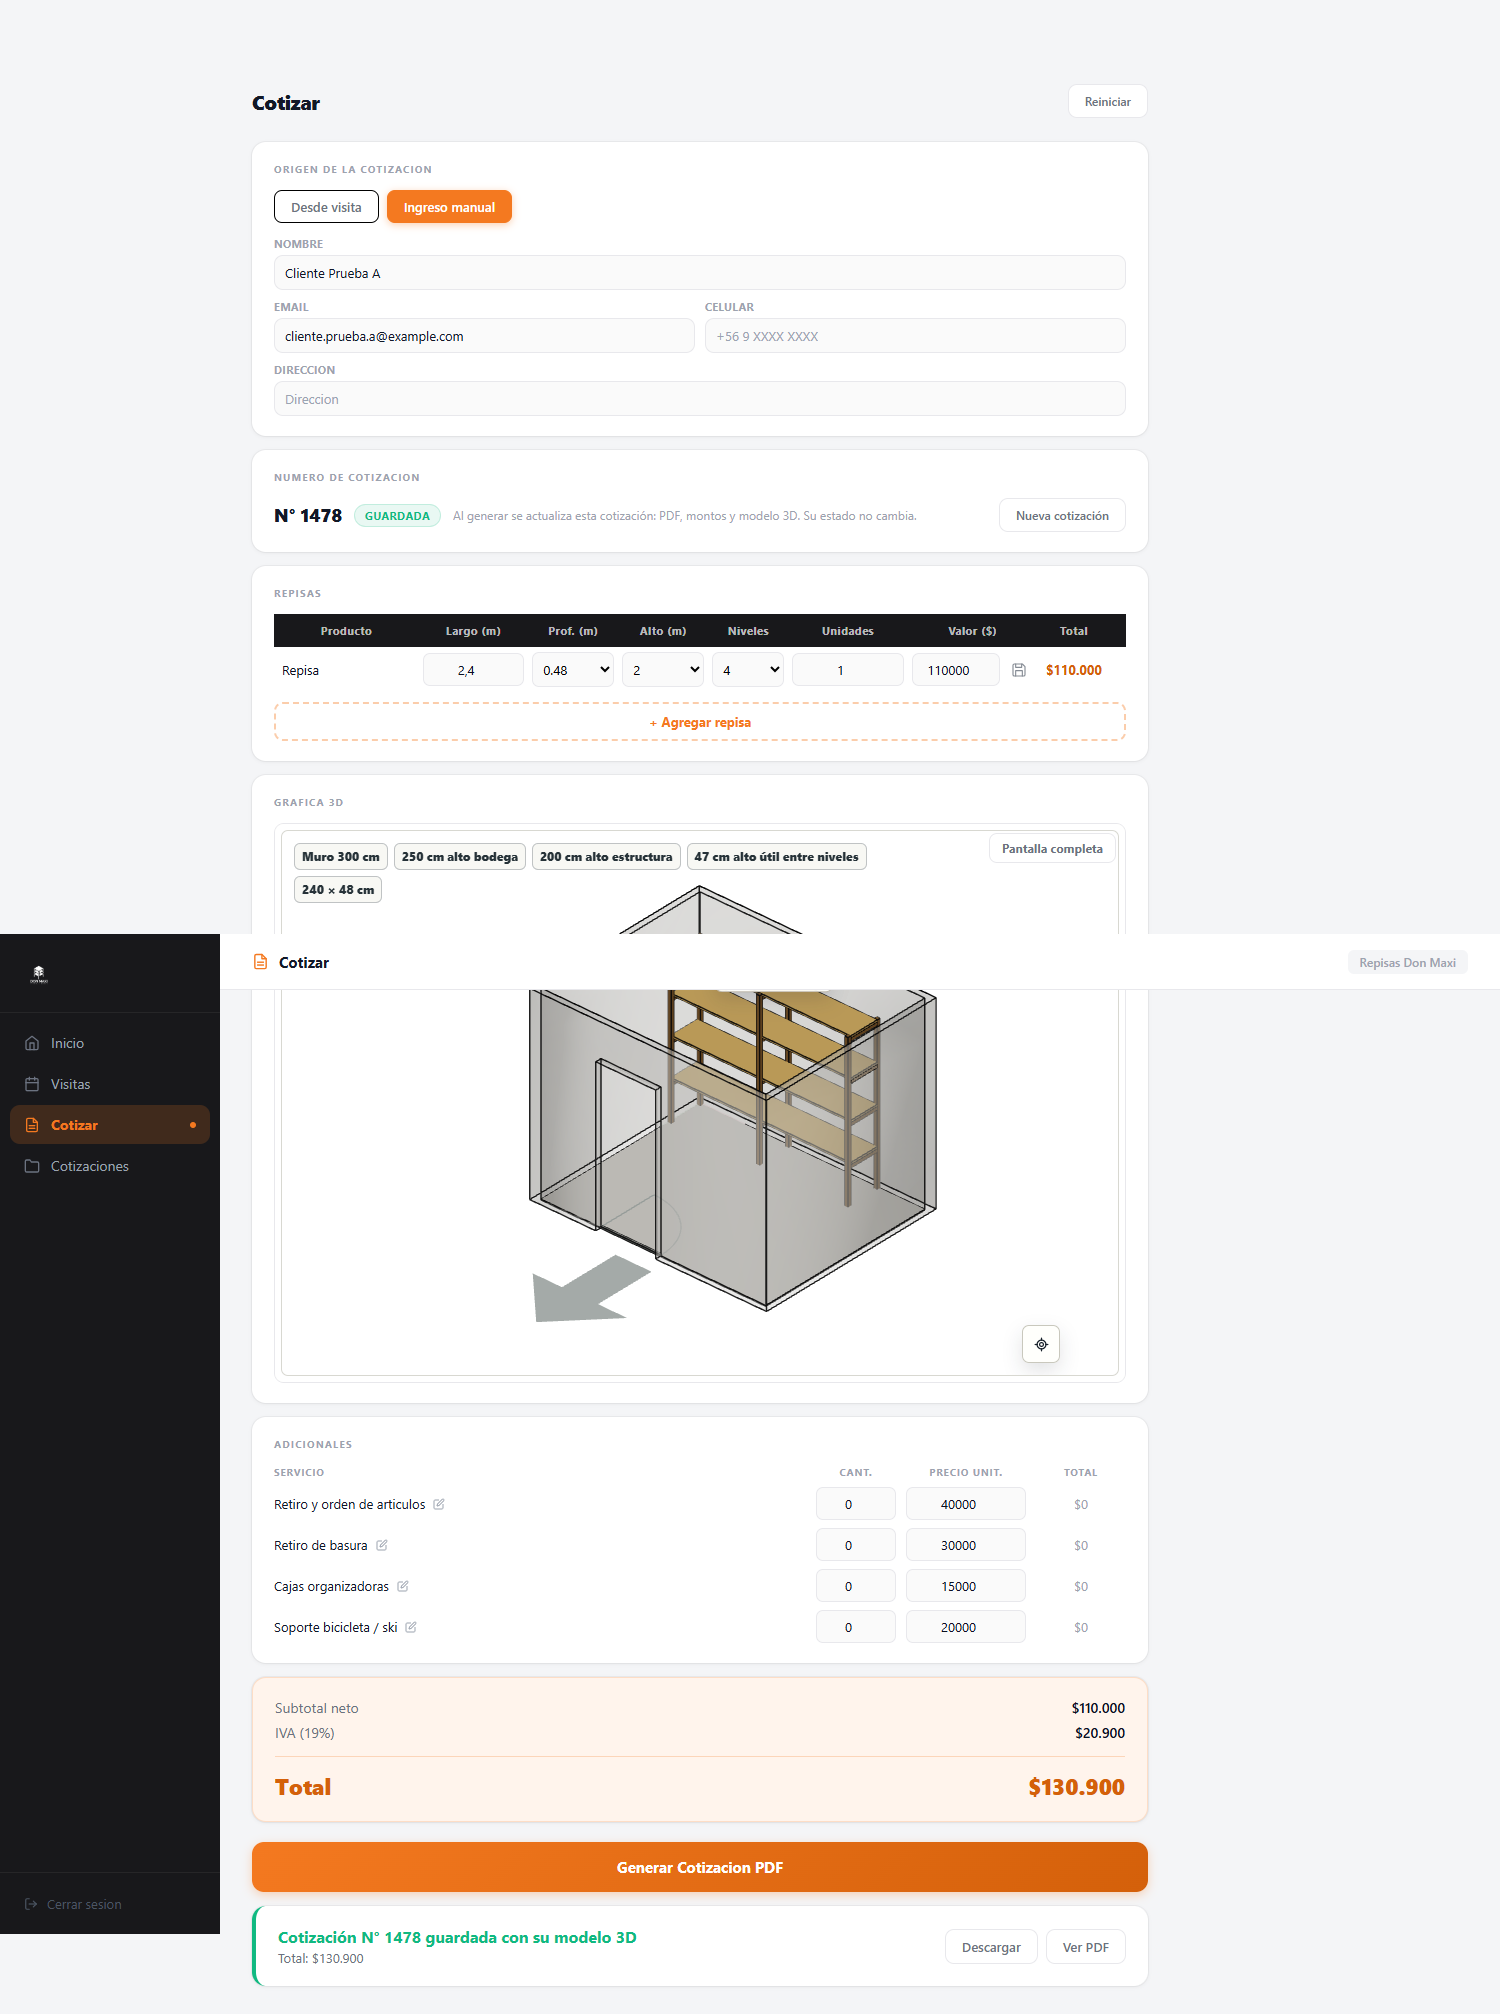
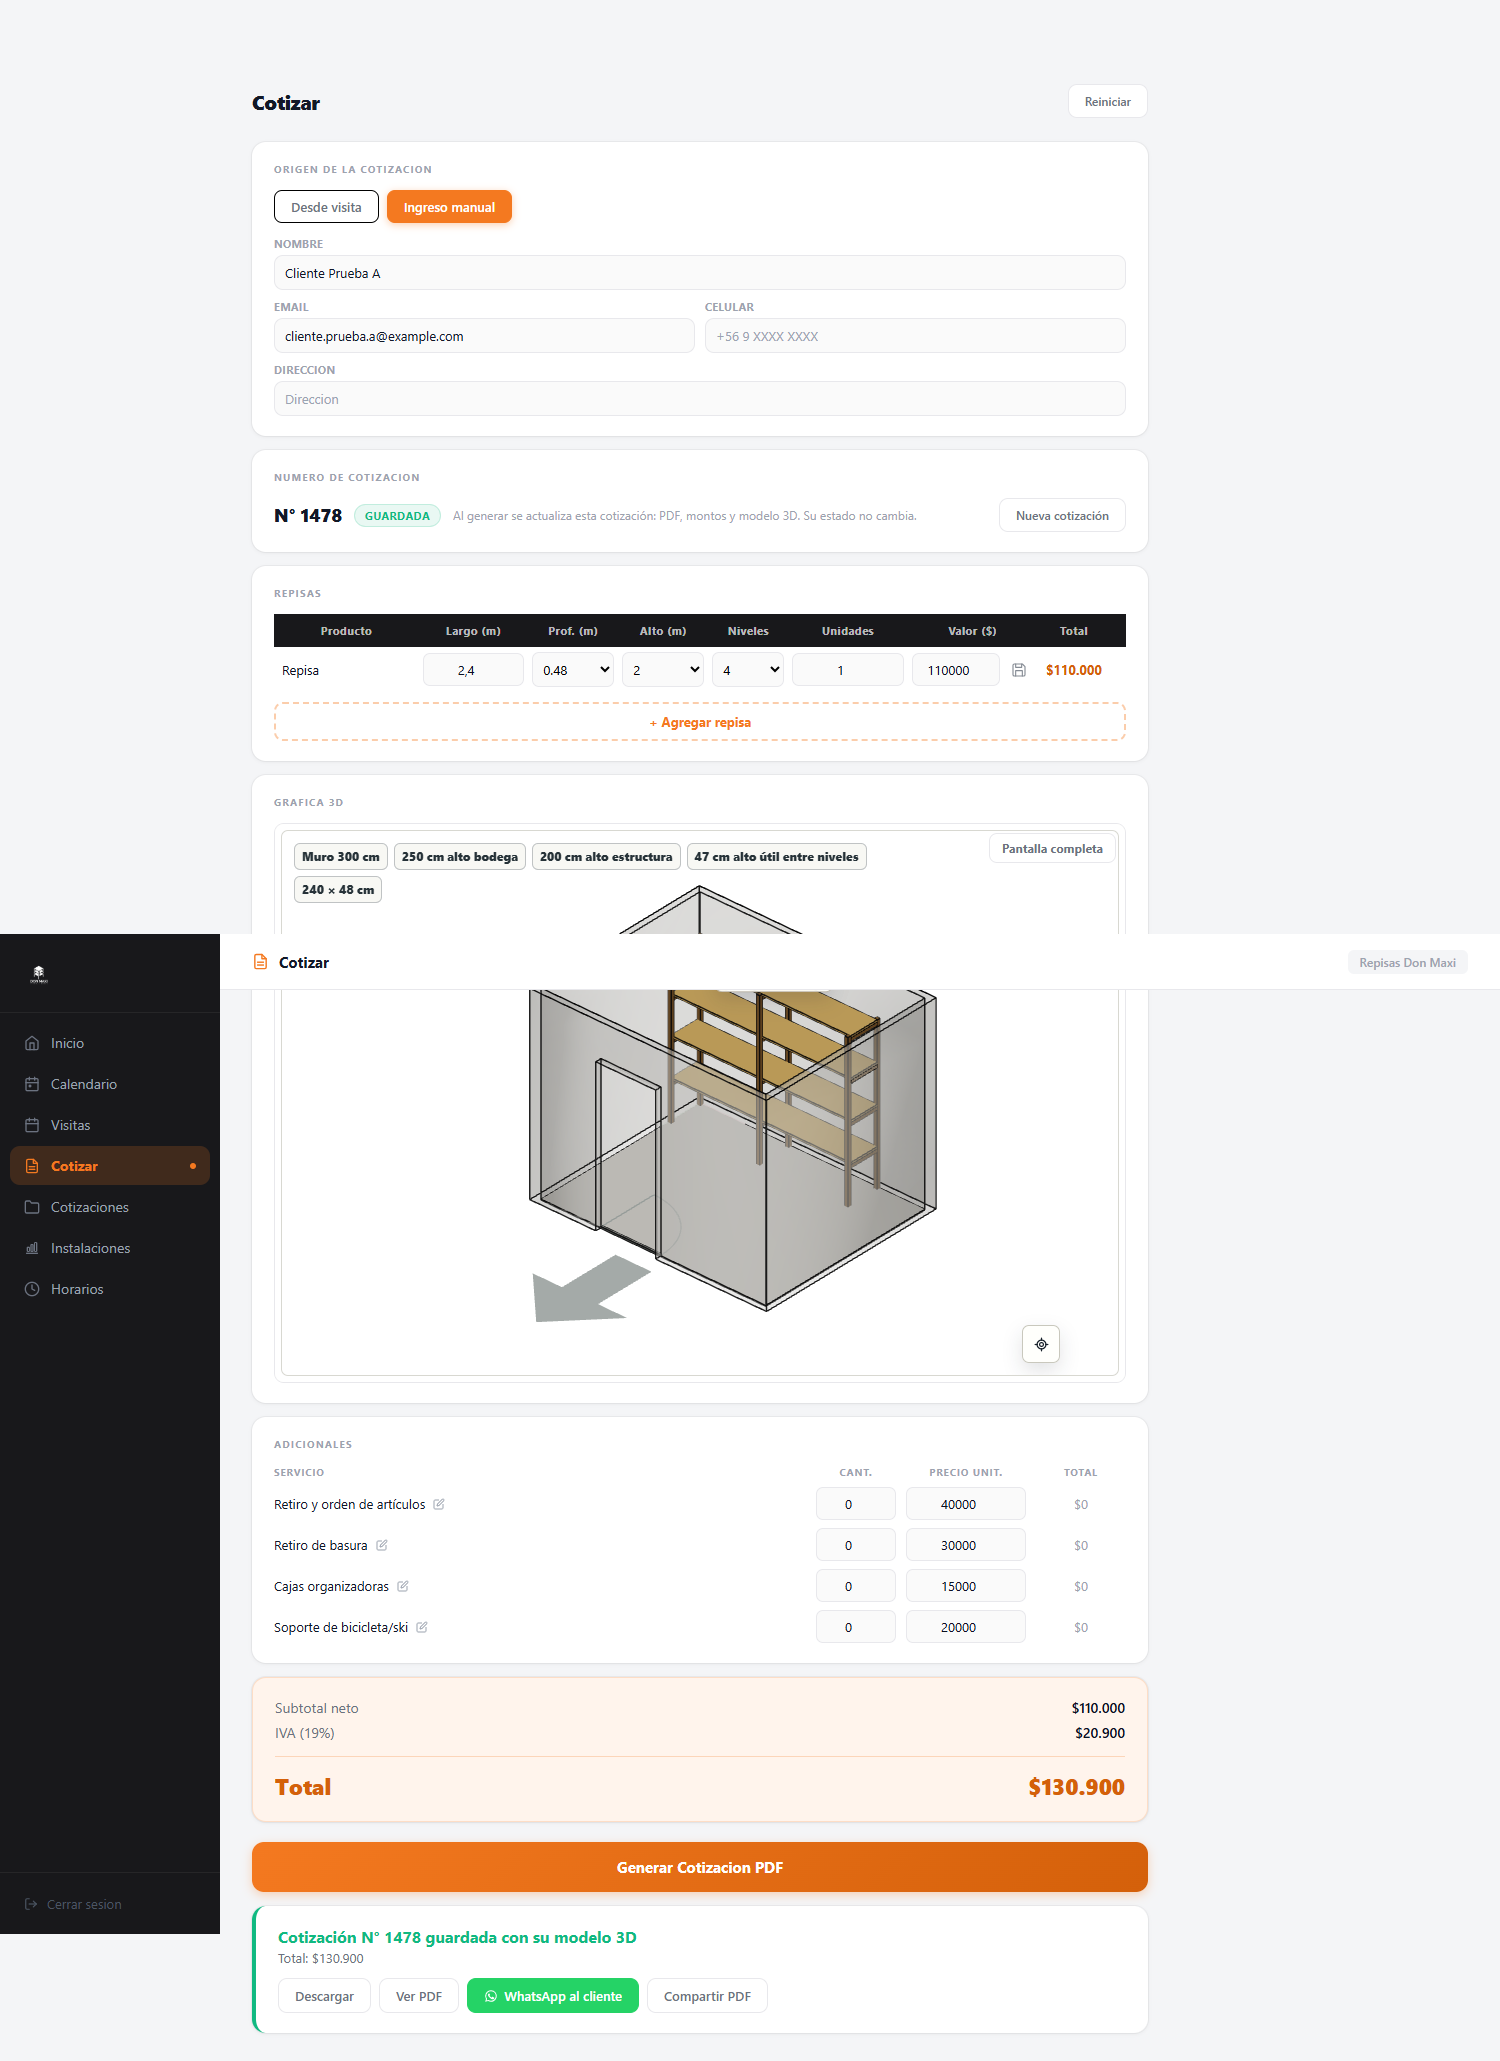
feat(cotizar): enviar la cotizacion por WhatsApp y servicios aparte en el PDF
- Boton 'WhatsApp al cliente' en Cotizar y Cotizaciones: abre el chat del
  cliente con el mensaje y el link al PDF en Drive.
- 'Compartir PDF' adjunta el archivo cuando el dispositivo lo permite.
- PDF: los servicios adicionales van bajo su propia franja y el nombre usa
  el ancho de las medidas (ya no se monta sobre la fila siguiente).
- Cotizar toma nombres y precios de los servicios de lib/marca.mjs.

diff --git a/src/admin/PorCotizar.jsx b/src/admin/PorCotizar.jsx
@@ -3,19 +3,12 @@ import { DEFAULTS_REPISA, C, adminFetch, apiFetch, fmtDate, fmt, styles } from '
 import { precioRepisa, filaPrecioRepisa, cargarTablaPrecios, TABLA_PRECIOS } from './preciosRepisas.js'
 import './PorCotizar.css'
 import { filasDeModulos, filaDesdeProducto, productoCotizacion } from './modulosCotizacion.js'
+import EnviarCotizacion from './EnviarCotizacion.jsx'
+import { SERVICIOS } from '../../netlify/functions/lib/marca.mjs'
 
-const AD_NOMBRES_INICIALES = {
-  retiro_orden: 'Retiro y orden de articulos',
-  retiro_basura: 'Retiro de basura',
-  cajas: 'Cajas organizadoras',
-  bici: 'Soporte bicicleta / ski',
-}
-const ADICIONALES_INICIALES = {
-  qty_retiro_orden: 0,  precio_retiro_orden: 40000,
-  qty_retiro_basura: 0, precio_retiro_basura: 30000,
-  qty_cajas: 0,         precio_cajas: 15000,
-  qty_bici: 0,          precio_bici: 20000,
-}
+// Nombres y precios de lista de los servicios: los mismos del PDF (lib/marca.mjs).
+const AD_NOMBRES_INICIALES = Object.fromEntries(SERVICIOS.map(([clave, nombre]) => [clave, nombre]))
+const ADICIONALES_INICIALES = Object.fromEntries(SERVICIOS.flatMap(([clave, , precio]) => [['qty_' + clave, 0], ['precio_' + clave, precio]]))
 
 function repisaPorDefecto(tabla) {
   const { l, p, a } = DEFAULTS_REPISA
@@ -234,6 +227,7 @@ export default function PorCotizarSection({ statuses, visitaSeleccionada, cotiza
   const [generating, setGenerating] = useState(false)
   const [pdfUrl, setPdfUrl]         = useState(null)
   const [pdfBlob, setPdfBlob]       = useState(null)
+  const [pdfDrive, setPdfDrive]     = useState('')
   const [totalInfo, setTotalInfo]   = useState(saved?.totalInfo || { subtotal: 0, iva: 0, total: 0 })
   const [autoSaved, setAutoSaved]   = useState(false)
   const [error, setError]           = useState('')
@@ -257,7 +251,7 @@ export default function PorCotizarSection({ statuses, visitaSeleccionada, cotiza
     setProject3d(q.proyecto3d || null)
     setCotGuardada({ cotNum: String(q.cotNum), fechaVisita: q.fechaVisita || '' })
     setTotalInfo({ subtotal: Number(q.subtotal) || 0, iva: Number(q.iva) || 0, total: Number(q.total) || 0 })
-    setPdfUrl(null); setPdfBlob(null); setAutoSaved(false); setError('')
+    setPdfUrl(null); setPdfBlob(null); setPdfDrive(''); setAutoSaved(false); setError('')
   }, [cotizacionAbierta])
 
   async function pedirSiguienteNumero() {
@@ -295,7 +289,7 @@ export default function PorCotizarSection({ statuses, visitaSeleccionada, cotiza
     setAdicionales(ADICIONALES_INICIALES)
     setTotalInfo({ subtotal: 0, iva: 0, total: 0 })
     setProject3d(null)
-    setPdfUrl(null); setPdfBlob(null); setAutoSaved(false); setError('')
+    setPdfUrl(null); setPdfBlob(null); setPdfDrive(''); setAutoSaved(false); setError('')
     setSelectedVisit(null); saveState({})
   }
 
@@ -419,7 +413,7 @@ export default function PorCotizarSection({ statuses, visitaSeleccionada, cotiza
     if (repisas.some(r => r.kind === 'rack' && (!Number.isSafeInteger(r.v) || r.v <= 0))) return setError('Ingresa el precio neto de cada rack completo antes de generar la cotización.')
     if (mode === 'visita' && !selectedVisit) return
     if (mode === 'manual' && !manualCliente.nombre.trim()) return setError('Ingresa el nombre del cliente')
-    setGenerating(true); setError(''); setPdfUrl(null); setAutoSaved(false)
+    setGenerating(true); setError(''); setPdfUrl(null); setPdfDrive(''); setAutoSaved(false)
 
     try {
       const grafica3d = await pedirGrafica3d()
@@ -479,6 +473,7 @@ export default function PorCotizarSection({ statuses, visitaSeleccionada, cotiza
           body: JSON.stringify({ cotNum: numero, pdfUrl: uploadRes.viewUrl }),
         })
         if (!conPdf.ok) throw new Error(conPdf.error || 'No se guardó el link del PDF')
+        setPdfDrive(uploadRes.viewUrl)
       } catch (e) {
         console.warn('upload-pdf error:', e.message)
         avisoPdf = 'La cotización N° ' + numero + ' quedó guardada, pero el PDF no se pudo subir a Drive (' + e.message + '). Vuelve a generar para reintentar.'
@@ -759,6 +754,7 @@ export default function PorCotizarSection({ statuses, visitaSeleccionada, cotiza
                 style={{ ...styles.btnSecondary, textDecoration: 'none', display: 'inline-flex', alignItems: 'center' }}>
                 Ver PDF
               </a>
+              {autoSaved && <EnviarCotizacion pdfBlob={pdfBlob} cotizacion={{ nombre: cliente.nombre, telefono: cliente.celular || cliente.telefono, cotNum: cotGuardada?.cotNum, total: totalInfo.total, pdfUrl: pdfDrive }} />}
             </div>
           </div>
         </div>

diff --git a/src/admin/EnviarCotizacion.jsx b/src/admin/EnviarCotizacion.jsx
@@ -1,0 +1,42 @@
+import React, { useState } from 'react'
+import { styles } from './utils.js'
+import { linkWhatsapp, mensajeCotizacion } from '../../netlify/functions/lib/mensajes.mjs'
+
+const VERDE = '#25D366'
+const nombreArchivo = nombre => `Cotizacion ${(nombre || 'cliente').trim()} - Repisas Don Maxi.pdf`
+
+// En el celular (y en Windows con WhatsApp instalado) el menu de compartir manda el PDF adjunto.
+function archivoCompartible(blob, nombre) {
+  if (!blob || typeof File === 'undefined' || !navigator.canShare) return null
+  const archivo = new File([blob], nombreArchivo(nombre), { type: 'application/pdf' })
+  try { return navigator.canShare({ files: [archivo] }) ? archivo : null } catch { return null }
+}
+
+// Botones para mandar la cotizacion por WhatsApp sin descargarla:
+// - "WhatsApp al cliente" abre el chat con su numero y el mensaje con el link al PDF.
+// - "Compartir PDF" adjunta el archivo mismo, cuando el dispositivo lo permite.
+export default function EnviarCotizacion({ cotizacion, pdfBlob, tamano = 13 }) {
+  const [aviso, setAviso] = useState('')
+  const archivo = archivoCompartible(pdfBlob, cotizacion.nombre)
+  const boton = { ...styles.btnSecondary, fontSize: tamano, padding: tamano < 13 ? '6px 14px' : '8px 16px', textDecoration: 'none', display: 'inline-flex', alignItems: 'center', gap: 6 }
+
+  async function compartir() {
+    setAviso('')
+    try { await navigator.share({ files: [archivo], text: mensajeCotizacion({ ...cotizacion, pdfUrl: '' }) }) }
+    catch (e) { if (e.name !== 'AbortError') setAviso('No se pudo abrir el menú de compartir. Usa "WhatsApp al cliente".') }
+  }
+
+  return (
+    <>
+      <a href={linkWhatsapp(cotizacion.telefono, mensajeCotizacion(cotizacion))} target="_blank" rel="noreferrer"
+        title={cotizacion.telefono ? 'Abre el chat con ' + cotizacion.telefono : 'Sin teléfono: WhatsApp te pedirá elegir el contacto'}
+        style={{ ...boton, background: VERDE, borderColor: VERDE, color: 'white' }}>
+        <svg width="14" height="14" viewBox="0 0 24 24" fill="currentColor" aria-hidden="true"><path d="M12 2a10 10 0 0 0-8.6 15.1L2 22l5-1.3A10 10 0 1 0 12 2zm0 18.2a8.2 8.2 0 0 1-4.2-1.2l-.3-.2-3 .8.8-2.9-.2-.3A8.2 8.2 0 1 1 12 20.2zm4.5-6.1c-.2-.1-1.5-.7-1.7-.8s-.4-.1-.6.1-.7.8-.8 1-.3.2-.5.1a6.7 6.7 0 0 1-3.3-2.9c-.2-.4.2-.4.7-1.3.1-.2 0-.3 0-.4l-.8-1.8c-.2-.5-.4-.4-.6-.4h-.5a1 1 0 0 0-.7.3 3 3 0 0 0-.9 2.2 5.2 5.2 0 0 0 1.1 2.8 11.9 11.9 0 0 0 4.6 4c1.7.7 2.4.8 3.2.7a2.8 2.8 0 0 0 1.8-1.3 2.3 2.3 0 0 0 .2-1.3c-.1-.1-.3-.2-.5-.3z"/></svg>
+        WhatsApp al cliente
+      </a>
+      {archivo && <button type="button" onClick={compartir} style={boton}>Compartir PDF</button>}
+      {!cotizacion.pdfUrl && <span style={{ fontSize: 12, color: '#B45309', alignSelf: 'center' }}>Sin link de Drive: el mensaje va sin el PDF.</span>}
+      {aviso && <span style={{ fontSize: 12, color: '#B91C1C', alignSelf: 'center' }}>{aviso}</span>}
+    </>
+  )
+}

diff --git a/src/admin/Cotizaciones.jsx b/src/admin/Cotizaciones.jsx
@@ -5,6 +5,7 @@ import { AgendarInstalacion, ResumenInstalacion } from './AgendarInstalacion.jsx
 import { fechaLarga } from './whatsappInstalacion.js'
 import { BadgePago, PagosCotizacion } from './PagosCotizacion.jsx'
 import { regenerarPdf } from './regenerarPdf.js'
+import EnviarCotizacion from './EnviarCotizacion.jsx'
 
 const MOTIVOS_RECHAZO = ['Precio alto', 'Sin respuesta', 'Eligio otro proveedor', 'Otro']
 
@@ -321,7 +322,7 @@ export default function CotizacionesSection({ onAbrirEnCotizador, enfocar }) {
                     {pdfNuevo[q.cotNum]?.blobUrl && <a href={pdfNuevo[q.cotNum].blobUrl} target="_blank" rel="noreferrer" style={{ fontSize: 12, fontWeight: 700, color: C.green }}>✓ PDF actualizado · ver</a>}
                   </div>
                   {q.pdfUrl && (
-                    <div style={{ display: 'flex', gap: 8, marginBottom: 14 }}>
+                    <div style={{ display: 'flex', gap: 8, marginBottom: 14, flexWrap: 'wrap' }}>
                       <a href={q.pdfUrl} target="_blank" rel="noreferrer"
                         style={{ ...styles.btnPrimary, fontSize: 12, padding: '6px 14px', textDecoration: 'none', display: 'inline-flex', alignItems: 'center', gap: 6 }}>
                         <svg width="13" height="13" viewBox="0 0 24 24" fill="none" stroke="currentColor" strokeWidth="2.5"><path d="M14 2H6a2 2 0 0 0-2 2v16a2 2 0 0 0 2 2h12a2 2 0 0 0 2-2V8z"/><polyline points="14 2 14 8 20 8"/></svg>
@@ -332,6 +333,7 @@ export default function CotizacionesSection({ onAbrirEnCotizador, enfocar }) {
                         <svg width="13" height="13" viewBox="0 0 24 24" fill="none" stroke="currentColor" strokeWidth="2.5"><path d="M21 15v4a2 2 0 0 1-2 2H5a2 2 0 0 1-2-2v-4"/><polyline points="7 10 12 15 17 10"/><line x1="12" y1="15" x2="12" y2="3"/></svg>
                         Descargar
                       </a>
+                      <EnviarCotizacion cotizacion={q} tamano={12} />
                     </div>
                   )}
 
